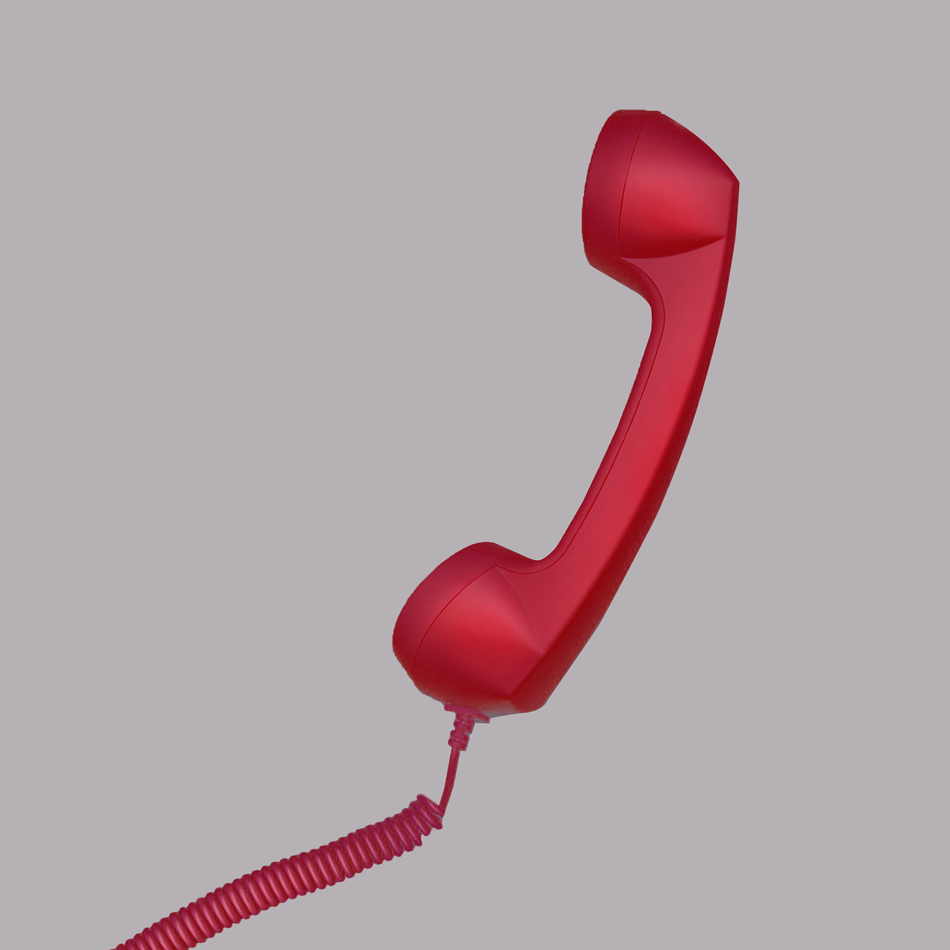
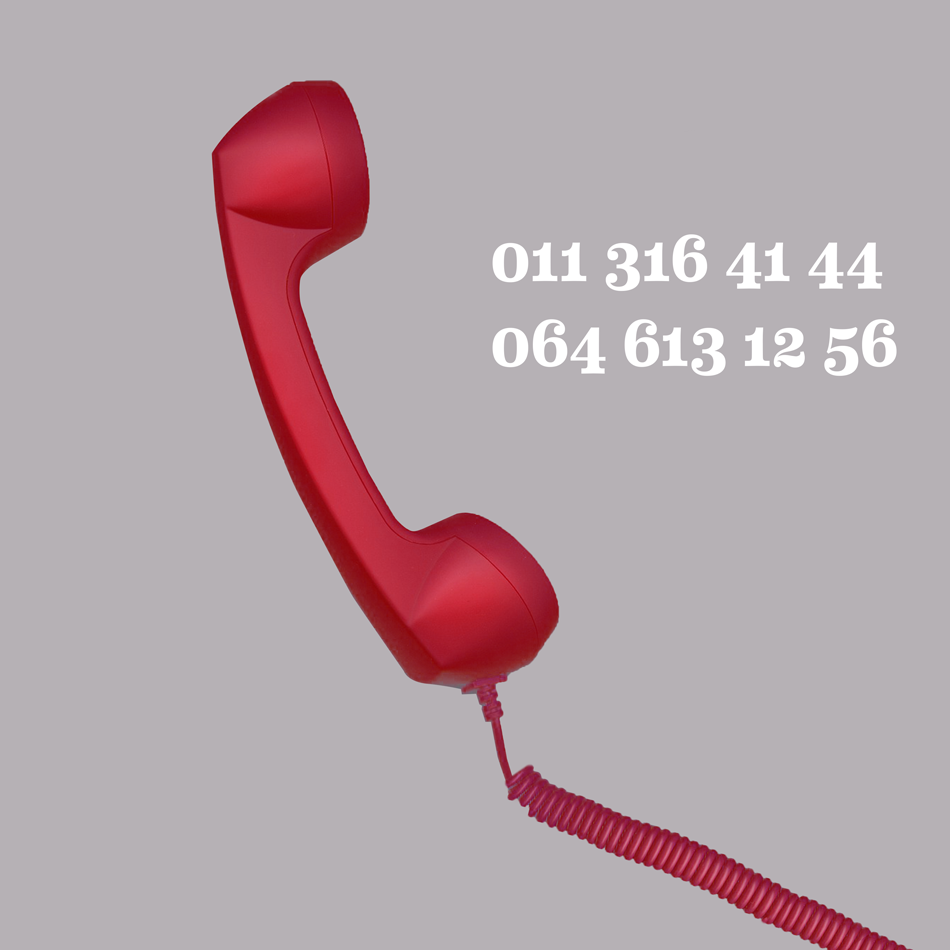
accordion

Changed region(s): [[0.1221, 0.0611, 0.9463, 1.0], [0.7937, 0.3358, 0.9463, 0.3968], [0.8547, 0.2442, 0.9463, 0.3053]]

diff --git a/sites/all/themes/theme756/templates/page--node--153.tpl.php b/sites/all/themes/theme756/templates/page--node--153.tpl.php
@@ -57,10 +57,6 @@ drupal_add_js(drupal_get_path('theme', 'theme756') . '/js/fullwidth.js');
                                 <div id="middle_part">
                                     <div><h2 class="title"><?php /*print $title;*/ ?></h2></div>
                                     <div><?php print render($page['content']); ?></div>
-                                    <div class="magazine-subscribe-desc">
-                                        <p>tel: +381 11 316 41 44</p>
-                                        <p>e-mail: pss@pss-magazine.com</p>
-                                    </div>
                                 </div>
                             </div>
                         </div>
